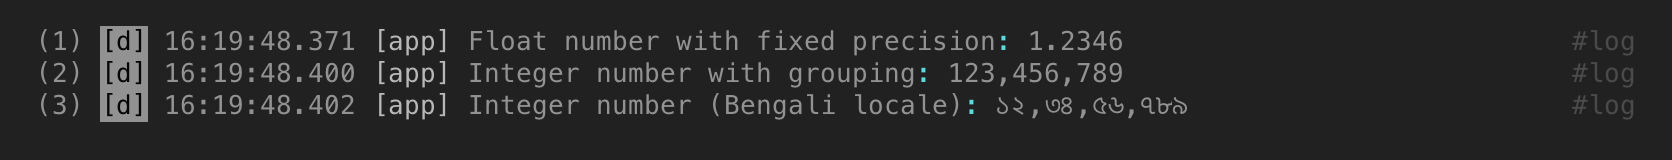
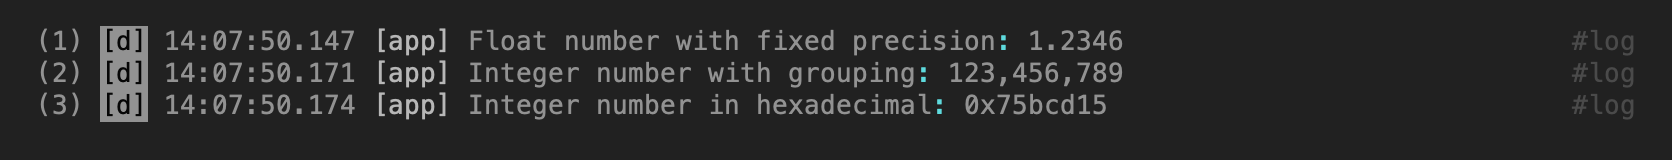
docs!: drop the ",n" number format the README still taught
The Bengali-locale example threw. format 4.1.0 stopped depending on intl
and no longer reads Intl.defaultLocale, and its `n` presentation takes no
grouping option, so `intFormat: ',n'` raises InvalidSpecifierException
rather than quietly changing its output. The example ran on every branch
of this repository since the format upgrade landed, and nobody ran it.

It is replaced by a hexadecimal one — the same idea of a second
presentation of the same integer, with no locale in it — and intl leaves
example/ with it, the only thing that imported it. The screenshot is
retaken.

The loss itself is worth stating plainly, so the CHANGELOG says it and
the README repeats it under the section: locale-aware number formatting
is not expressible through LoggableConfig at all any more. format reads
its NumberLocale from a Format instance and this package calls the
top-level format(). Giving it back is a feature, not a doc fix.

Two pins in number_format_test keep the boundary visible: `n` follows
the C locale and does not group, `,n` throws.

diff --git a/test/loggable/number_format_test.dart b/test/loggable/number_format_test.dart
@@ -46,6 +46,21 @@ void main() {
         '00042ms',
       );
     });
+
+    // Локалезависимого варианта у нас нет: спецификатор уходит в
+    // топ-уровневый `format()`, а свою `NumberLocale` пакет читает из
+    // инстанса `Format`. С версии 3.0.0 он не смотрит и в окружающий
+    // `Intl.defaultLocale`, на котором это когда-то держалось.
+    test('n follows the C locale and does not group', () {
+      expect(render(1234567, const LoggableConfig(intFormat: 'n')), '1234567');
+    });
+
+    test(',n is rejected — n takes no grouping option', () {
+      expect(
+        () => render(1234567, const LoggableConfig(intFormat: ',n')),
+        throwsA(anything),
+      );
+    });
   });
 
   group('doubleFormat', () {

diff --git a/example/bin/readme_examples/data.dart b/example/bin/readme_examples/data.dart
@@ -1,5 +1,4 @@
 import 'package:example/readme_examples/default_log.dart';
-import 'package:intl/intl.dart';
 import 'package:team_logger/team_logger.dart';
 
 Future<void> main() async {
@@ -75,13 +74,11 @@ Future<void> main() async {
     config: const LoggableConfig(intFormat: ',d'),
   );
 
-  Intl.defaultLocale = 'bn';
   log.d(
-    'Integer number (Bengali locale)',
+    'Integer number in hexadecimal',
     data: 123456789,
-    config: const LoggableConfig(intFormat: ',n'),
+    config: const LoggableConfig(intFormat: '#x'),
   );
-  Intl.defaultLocale = null;
 
   log.d(
     'String',

diff --git a/docs/records/2026-08-20[2]-int-format-locale-report.md b/docs/records/2026-08-20[2]-int-format-locale-report.md
@@ -1,0 +1,69 @@
+> **Состояние на 2026-08-20:** сделано, в рабочем дереве, не закоммичено;
+> входит в невыпущенную 0.7.0.
+> **Что это:** отчёт о том, как из README и примера убран спецификатор
+> `,n`, который после `format` 4.1.0 бросает исключение.
+> **Связанные записи:** `2026-08-20[1]-logger-builder-0.7.0-report.md`,
+> `2026-08-18[2]-flutter-compat-report.md`.
+
+# `intFormat: ',n'` — убрать и заменить
+
+## Что было не так
+
+`example/bin/readme_examples/data.dart` падал
+`InvalidSpecifierException`'ом. Виноват блок «Integer number (Bengali
+locale)»: `Intl.defaultLocale = 'bn'` плюс `intFormat: ',n'`. Ровно тот же
+код лежал в README (строки ~999–1003) как рабочий пример.
+
+Причина — не наша, а хвост обновления `format` 1.6.0 → 4.1.0 (волна 3
+невыпущенной 0.7.0). Начиная с 3.0.0 `format` не зависит от `intl` и не
+смотрит в окружающий `Intl.defaultLocale`; свою `NumberLocale` он читает из
+инстанса `Format`. Кроме того, `n` у него не принимает опцию группировки
+(`,`/`_`) — эти две группируют одинаково под любой локалью, а `n` следует
+локали, и совмещать их нечего. Отсюда исключение, а не тихая смена вывода.
+
+Библиотека тут ни при чём: `Loggable._intToString` просто подставляет
+спецификатор пользователя в `format('{:$f}', obj)`.
+
+Важное следствие, которое стоило записать явно: **локалезависимого
+форматирования чисел у пакета больше нет вообще**. Не «поменялось», не
+«нужно иначе настроить» — его нельзя выразить через `LoggableConfig`, пока
+мы зовём топ-уровневый `format()`. Чтобы вернуть, пришлось бы завести и
+прокинуть свой `Format`, а это фича, а не правка документации.
+
+## Что сделано
+
+Пример с бенгальской локалью заменён на шестнадцатеричный вывод — та же
+идея «другое представление того же целого», но без локали:
+
+```dart
+log.d(
+  'Integer number in hexadecimal',
+  data: 123456789,
+  config: const LoggableConfig(intFormat: '#x'),
+);
+```
+
+- `README.md` — снипет заменён; после картинки добавлен абзац о том, что
+  спецификатор уходит в `format` как есть, `,`/`_` группируют под любой
+  локалью, `n` следует C-локали, а `Intl.defaultLocale` ни на что не
+  влияет.
+- `example/bin/readme_examples/data.dart` — тот же блок, импорт `intl`
+  убран.
+- `example/pubspec.yaml` — `intl` убран из зависимостей: `data.dart` был
+  единственным потребителем. В lock'е примера его больше нет.
+- `screenshots/data_6.png` переснят через `scripts/ansi_screenshot.sh`
+  (третья строка теперь `0x75bcd15`). Логгер для съёмки — с тегом `log`,
+  как у остальных скриншотов раздела.
+- `CHANGELOG.md` — отдельный пункт в 0.7.0 с пометкой breaking: что именно
+  перестало работать и что замены нет.
+- `test/loggable/number_format_test.dart` — два пина: `n` печатает
+  `1234567` без группировки (C-локаль), `,n` бросает.
+
+## Проверки
+
+- `dart test` — 423 теста (было 421), все зелёные.
+- `dart analyze` — чисто в корне и в `example/`.
+- `dart format .` — чисто.
+- `example/`: все восемь `bin/readme_examples/*.dart` отрабатывают —
+  впервые за эту 0.7.0, `data.dart` до этого падал; `bin/example.dart`
+  тоже.

diff --git a/CHANGELOG.md b/CHANGELOG.md
@@ -140,6 +140,18 @@
   radices, fixed and exponential forms, rounding — is unchanged, and
   `test/loggable/number_format_test.dart` now pins all of it; that file
   covers `intFormat`/`doubleFormat` for the first time.
+- [breaking changes] A locale-aware `intFormat`/`doubleFormat` no longer
+  works by setting `Intl.defaultLocale`, because the specifier is handed
+  to `format` and `format` stopped reading an ambient `intl` locale when
+  it dropped the dependency. `intFormat: ',n'` now throws
+  `InvalidSpecifierException` outright — `n` takes no grouping option —
+  and a bare `n` follows the C locale rather than the application's. The
+  README taught the old form and no longer does: the example that printed
+  123 456 789 in Bengali digits prints it in hexadecimal instead
+  (`intFormat: '#x'`), and `intl` leaves `example/` with it. There is no
+  replacement for the locale-aware form here: `format` reads its
+  `NumberLocale` from a `Format` instance, and this package calls the
+  top-level `format()`.
 
 ## 0.6.0
 

diff --git a/README.md b/README.md
@@ -996,15 +996,21 @@ log.d(
   config: const LoggableConfig(intFormat: ',d'),
 );
 
-Intl.defaultLocale = 'bn';
 log.d(
-  'Integer number (Bengali locale)',
+  'Integer number in hexadecimal',
   data: 123456789,
-  config: const LoggableConfig(intFormat: ',n'),
+  config: const LoggableConfig(intFormat: '#x'),
 );
 ```
 
 ![Formatting settings. Numbers](screenshots/data_6.png)
+
+The specifier is handed to `format` as it is written, so its rules apply
+verbatim — including the locale ones. `format` groups with `,` and `_` under
+every locale and reserves `n` for the locale-aware form, and since it stopped
+depending on `intl` it no longer reads an ambient locale: `n` follows the C
+locale, and setting `Intl.defaultLocale` changes nothing. `intFormat: ',n'`
+throws `InvalidSpecifierException` — `n` takes no grouping option.
 
 String can be displayed with or without quotation marks:
 
